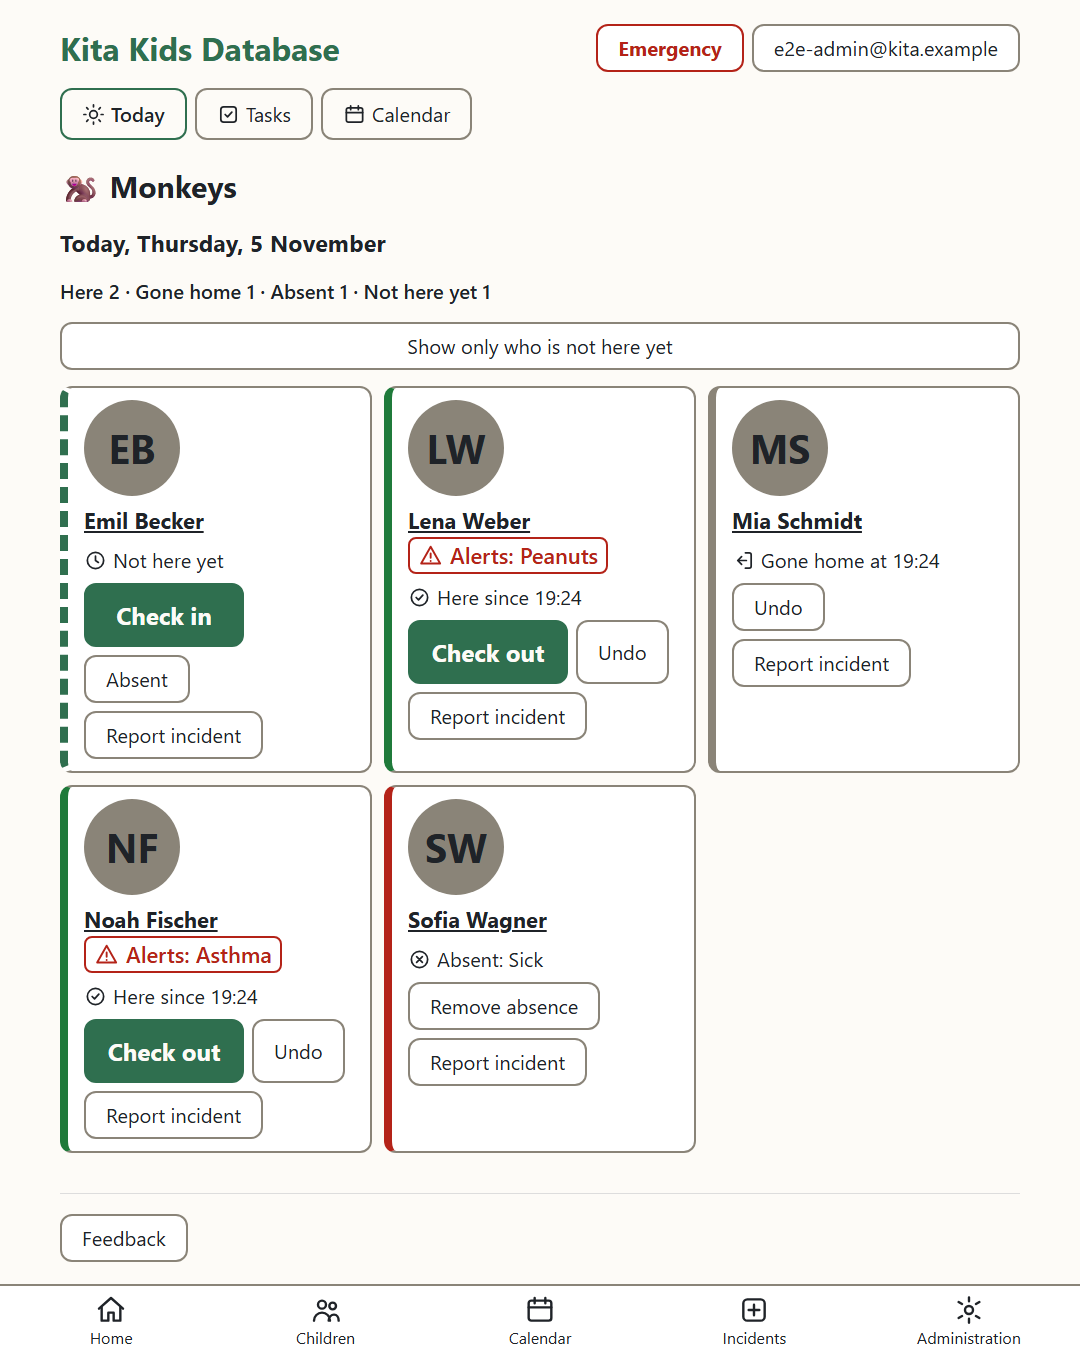
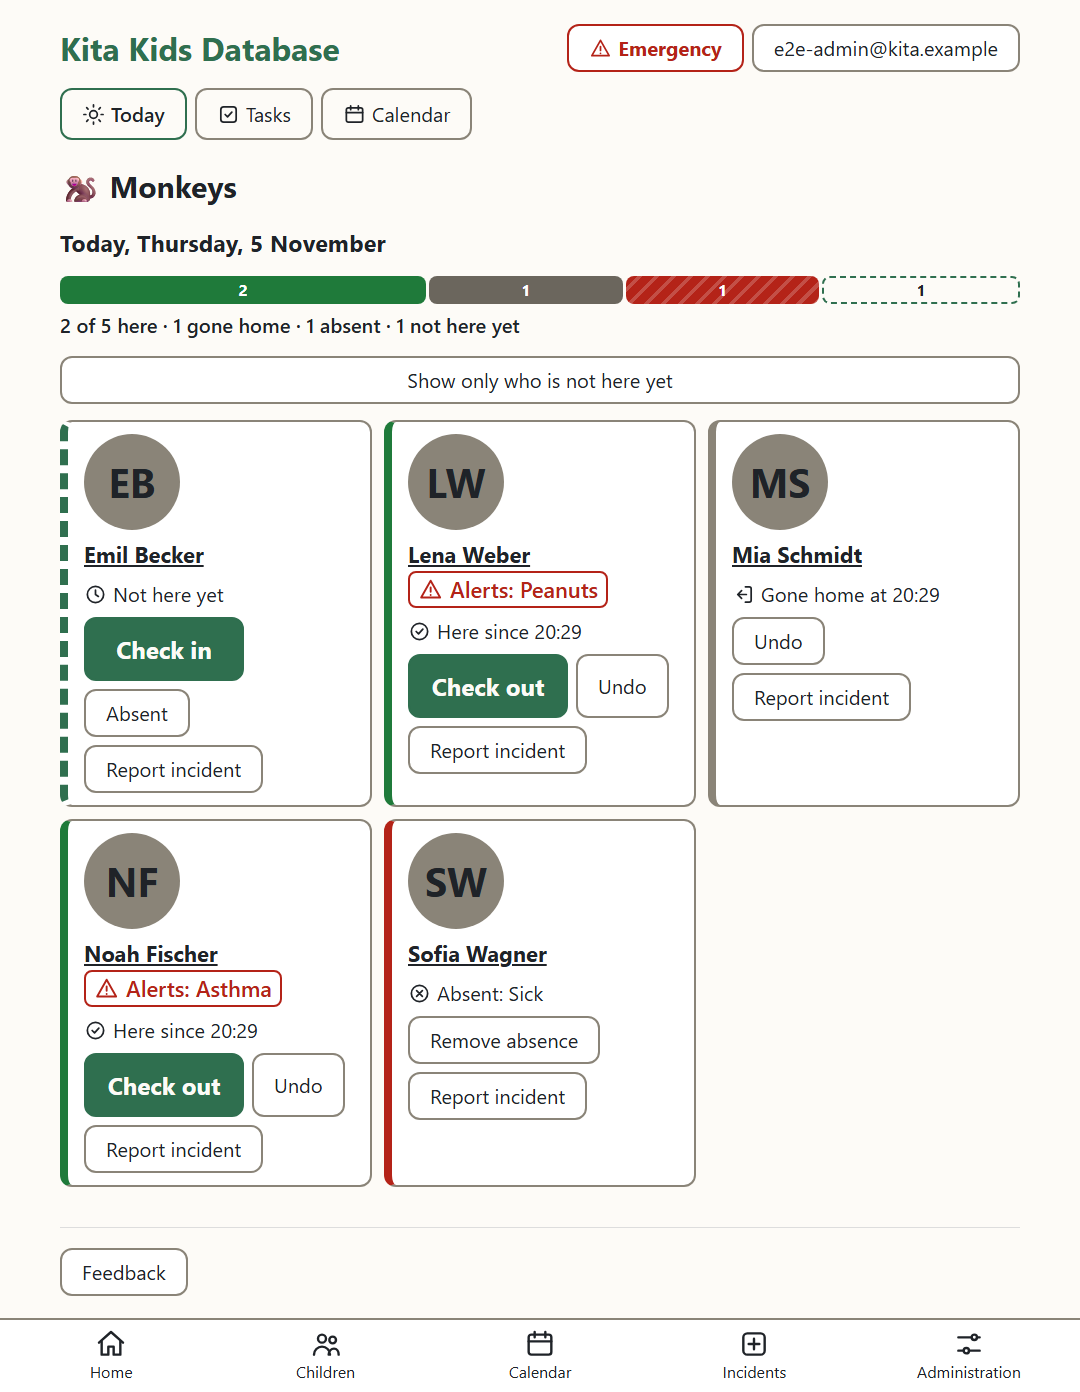
Show the day as a labelled bar (#54)
One bar in up to four parts (here, gone home, absent, not here yet),
each as wide as its share with its number on it and its own pattern
(solid, solid grey, stripes, dashed outline), so colour is never the
only signal; the same written out beside it ("2 of 5 here · …"), which
is what screen readers read. On every Group tile and in a Group's Today
view; all numbers at 4.5:1 on their part, in light and dark mode.

Closes #54

diff --git a/frontend/src/index.css b/frontend/src/index.css
@@ -6,6 +6,11 @@
   --bad: #b42318;
   --surface: #ffffff;
   --border: #8a8478;
+  /* The day bar: here, gone home, absent (and the text on them, all 4.5:1 or more). */
+  --part-here: #1f7a3a;
+  --part-gone: #6b665d;
+  --part-absent: #b42318;
+  --on-part: #ffffff;
   font-family: system-ui, 'Segoe UI', Roboto, sans-serif;
   font-size: 20px;
   line-height: 1.5;
@@ -22,6 +27,10 @@
     --bad: #ff8a7a;
     --surface: #22252a;
     --border: #7a808a;
+    --part-here: #6fd18f;
+    --part-gone: #9aa0a8;
+    --part-absent: #ff8a7a;
+    --on-part: #17191c;
   }
 }
 
@@ -760,6 +769,56 @@ main.with-navigation {
 
 .kita-today p {
   margin: 4px 0;
+}
+
+/* A day in numbers: one bar in up to four parts, and the same written out. */
+.day-bar {
+  display: flex;
+  flex-direction: column;
+  gap: 6px;
+}
+
+.day-bar-track {
+  display: flex;
+  gap: 3px;
+  min-height: 28px;
+}
+
+.day-bar-part {
+  display: flex;
+  align-items: center;
+  justify-content: center;
+  min-width: 28px;
+  padding: 0 6px;
+  color: var(--on-part);
+  font-size: 0.8rem;
+  font-weight: 700;
+  border-radius: 8px;
+}
+
+.day-bar-part.here {
+  background: var(--part-here);
+}
+
+.day-bar-part.gone {
+  background: var(--part-gone);
+}
+
+/* Stripes, so absent differs from here and gone by more than colour. */
+.day-bar-part.absent {
+  background: repeating-linear-gradient(135deg, var(--part-absent) 0 8px, color-mix(in srgb, var(--part-absent) 80%, var(--surface)) 8px 12px);
+}
+
+/* Still to come: an outline, not a fill. */
+.day-bar-part.notYet {
+  color: var(--text);
+  background: var(--bg);
+  border: 2px dashed var(--accent);
+}
+
+.day-bar-text {
+  margin: 0;
+  font-weight: 600;
 }
 
 .administration ul {
@@ -1571,10 +1630,6 @@ main.with-navigation {
   font-weight: 600;
 }
 
-.today-counts {
-  margin: 0;
-  font-weight: 600;
-}
 
 .today-list {
   display: grid;

diff --git a/frontend/src/DayBar.tsx b/frontend/src/DayBar.tsx
@@ -1,0 +1,28 @@
+import { useTranslation } from 'react-i18next'
+
+export type DayCounts = { here: number; gone: number; absent: number; notYet: number }
+
+// In the order of the day: who is here, who has gone home, who is not coming, who is still to come.
+const parts = ['here', 'gone', 'absent', 'notYet'] as const
+
+/** A day in numbers: a bar in up to four parts, each as wide as its share and with its number on
+ * it, and the same written out beside it (which is also what a screen reader reads; the bar is
+ * decoration). Each part has its own pattern too, so colour is never the only difference. */
+export default function DayBar({ day }: { day: DayCounts }) {
+  const { t } = useTranslation()
+  const total = day.here + day.gone + day.absent + day.notYet
+  return (
+    <div className="day-bar">
+      <div className="day-bar-track" aria-hidden="true">
+        {parts
+          .filter((part) => day[part] > 0)
+          .map((part) => (
+            <span key={part} data-part={part} className={`day-bar-part ${part}`} style={{ flexGrow: day[part] }}>
+              {day[part]}
+            </span>
+          ))}
+      </div>
+      <p className="day-bar-text">{t('dayInNumbers', { ...day, total })}</p>
+    </div>
+  )
+}

diff --git a/frontend/src/DayBar.test.tsx b/frontend/src/DayBar.test.tsx
@@ -1,0 +1,34 @@
+// @vitest-environment happy-dom
+import { render, screen } from '@testing-library/react'
+import { afterEach, describe, expect, it } from 'vitest'
+import DayBar from './DayBar'
+import i18n from './i18n'
+
+describe('day bar', () => {
+  afterEach(async () => {
+    await i18n.changeLanguage('en')
+  })
+
+  it('writes the day in numbers beside the bar', () => {
+    render(<DayBar day={{ here: 12, gone: 1, absent: 1, notYet: 1 }} />)
+
+    expect(screen.getByText('12 of 15 here · 1 gone home · 1 absent · 1 not here yet')).toBeInTheDocument()
+  })
+
+  it('draws a part only for what there is, each with its number', () => {
+    const { container } = render(<DayBar day={{ here: 3, gone: 0, absent: 2, notYet: 0 }} />)
+
+    const parts = [...container.querySelectorAll('[data-part]')].map((part) => [part.getAttribute('data-part'), part.textContent])
+    expect(parts).toEqual([
+      ['here', '3'],
+      ['absent', '2'],
+    ])
+  })
+
+  it('is in German too', async () => {
+    await i18n.changeLanguage('de')
+    render(<DayBar day={{ here: 2, gone: 1, absent: 0, notYet: 3 }} />)
+
+    expect(screen.getByText('2 von 6 da · 1 abgeholt · 0 abwesend · 3 noch nicht da')).toBeInTheDocument()
+  })
+})

diff --git a/frontend/src/i18n.ts b/frontend/src/i18n.ts
@@ -374,7 +374,7 @@ export const resources = {
       incidentsToday: 'Incidents today: {{count}}',
       birthdayToday: 'Birthday today: {{names}}',
       birthdayMark: 'Birthday today',
-      todayCounts: 'Here {{here}} · Gone home {{gone}} · Absent {{absent}} · Not here yet {{notYet}}',
+      dayInNumbers: '{{here}} of {{total}} here · {{gone}} gone home · {{absent}} absent · {{notYet}} not here yet',
       notHereYet: 'Not here yet',
       hereSince: 'Here since {{time}}',
       goneHomeAt: 'Gone home at {{time}}',
@@ -836,7 +836,7 @@ export const resources = {
       incidentsToday: 'Vorfälle heute: {{count}}',
       birthdayToday: 'Geburtstag heute: {{names}}',
       birthdayMark: 'Hat heute Geburtstag',
-      todayCounts: 'Da {{here}} · Abgeholt {{gone}} · Abwesend {{absent}} · Noch nicht da {{notYet}}',
+      dayInNumbers: '{{here}} von {{total}} da · {{gone}} abgeholt · {{absent}} abwesend · {{notYet}} noch nicht da',
       notHereYet: 'Noch nicht da',
       hereSince: 'Da seit {{time}}',
       goneHomeAt: 'Abgeholt um {{time}}',

diff --git a/frontend/src/GroupDashboard.tsx b/frontend/src/GroupDashboard.tsx
@@ -16,6 +16,7 @@ import {
   type GroupChild,
 } from './api'
 import { longDay } from './calendarDates'
+import DayBar from './DayBar'
 import { kitaTime } from './dates'
 import GroupLabel from './GroupLabel'
 import IncidentReport from './IncidentReport'
@@ -64,9 +65,7 @@ export default function GroupDashboard() {
         <p>{t('noChildrenInGroup')}</p>
       ) : (
         <>
-          <p className="today-counts">
-            {t('todayCounts', { here: count('here'), gone: count('gone'), absent: count('absent'), notYet: count('notYet') })}
-          </p>
+          <DayBar day={{ here: count('here'), gone: count('gone'), absent: count('absent'), notYet: count('notYet') }} />
           <button type="button" aria-pressed={notYetOnly} onClick={() => setNotYetOnly(!notYetOnly)}>
             {t('onlyNotHereYet')}
           </button>

diff --git a/frontend/src/KitaOverview.test.tsx b/frontend/src/KitaOverview.test.tsx
@@ -22,7 +22,7 @@ describe('Kita overview', () => {
     expect(await screen.findByRole('heading', { name: 'Today at the Kita, Monday, 4 January' })).toBeInTheDocument()
     const monkeys = screen.getByRole('link', { name: /Monkeys/ })
     expect(monkeys).toHaveAttribute('href', '/groups/2')
-    expect(monkeys).toHaveTextContent('Here 1 · Gone home 1 · Absent 1 · Not here yet 1')
+    expect(monkeys).toHaveTextContent('1 of 4 here · 1 gone home · 1 absent · 1 not here yet')
     expect(monkeys).toHaveTextContent('With allergies or medical conditions here: 1')
     expect(monkeys).toHaveTextContent('Birthday today: Lena Müller')
     expect(screen.getByRole('link', { name: /Bears/ })).toHaveTextContent('No Children in this Group')

diff --git a/frontend/src/GroupDayTile.tsx b/frontend/src/GroupDayTile.tsx
@@ -1,6 +1,7 @@
 import { useTranslation } from 'react-i18next'
 import { Link } from 'react-router-dom'
 import type { GroupDay } from './api'
+import DayBar from './DayBar'
 import GroupLabel from './GroupLabel'
 import Icon from './Icon'
 
@@ -19,7 +20,7 @@ export default function GroupDayTile({ group }: { group: GroupDay }) {
           <span>{t('noChildrenInGroup')}</span>
         ) : (
           <>
-            <span>{t('todayCounts', { here: group.here, gone: group.gone, absent: group.absent, notYet: group.notYet })}</span>
+            <DayBar day={group} />
             {group.alertsHere > 0 && (
               <span className="group-tile-alerts">
                 <Icon name="alert" />

diff --git a/frontend/e2e/today.spec.ts b/frontend/e2e/today.spec.ts
@@ -38,7 +38,7 @@ test('at the door, a Child is checked in and out by tap, and another marked abse
   await absence.getByLabel('Reason').selectOption({ label: 'Holiday' })
   await absence.getByRole('button', { name: 'Save' }).tap()
   await expect(mia).toContainText('Absent: Holiday')
-  await expect(page.getByText('Here 1 · Gone home 0 · Absent 1 · Not here yet 0')).toBeVisible()
+  await expect(page.getByText('1 of 2 here · 0 gone home · 1 absent · 0 not here yet')).toBeVisible()
 
   await lena.getByRole('button', { name: `Check out Lena ${lastName}` }).tap()
   await expect(lena.getByRole('region', { name: `Who may pick up Lena ${lastName}` })).toContainText('Nobody may pick up yet.')

diff --git a/frontend/src/Today.test.tsx b/frontend/src/Today.test.tsx
@@ -66,7 +66,7 @@ describe('Today view', () => {
 
     expect(await screen.findByRole('heading', { name: 'Today, Monday, 4 January' })).toBeInTheDocument()
     expect(screen.getByText('Birthday today: Lena Müller')).toBeInTheDocument()
-    expect(screen.getByText('Here 1 · Gone home 1 · Absent 1 · Not here yet 1')).toBeInTheDocument()
+    expect(screen.getByText('1 of 4 here · 1 gone home · 1 absent · 1 not here yet')).toBeInTheDocument()
     expect(card('Lena Müller')).toHaveTextContent('Not here yet')
     expect(card('Lena Müller')).toHaveTextContent('Alerts: Peanuts')
     expect(card('Mia Müller')).toHaveTextContent('Here since 08:12')

diff --git a/frontend/src/StartPage.test.tsx b/frontend/src/StartPage.test.tsx
@@ -31,7 +31,7 @@ describe('a Teacher’s start page', () => {
     renderAt('/', <App />)
 
     expect(await screen.findByRole('link', { name: /Monkeys/ })).toHaveAttribute('href', '/groups/2')
-    expect(screen.getByRole('link', { name: /Bears/ })).toHaveTextContent('Here 0 · Gone home 0 · Absent 0 · Not here yet 2')
+    expect(screen.getByRole('link', { name: /Bears/ })).toHaveTextContent('0 of 2 here · 0 gone home · 0 absent · 2 not here yet')
   })
 
   it('lists all Groups, and says how to get one, when they work in none', async () => {
